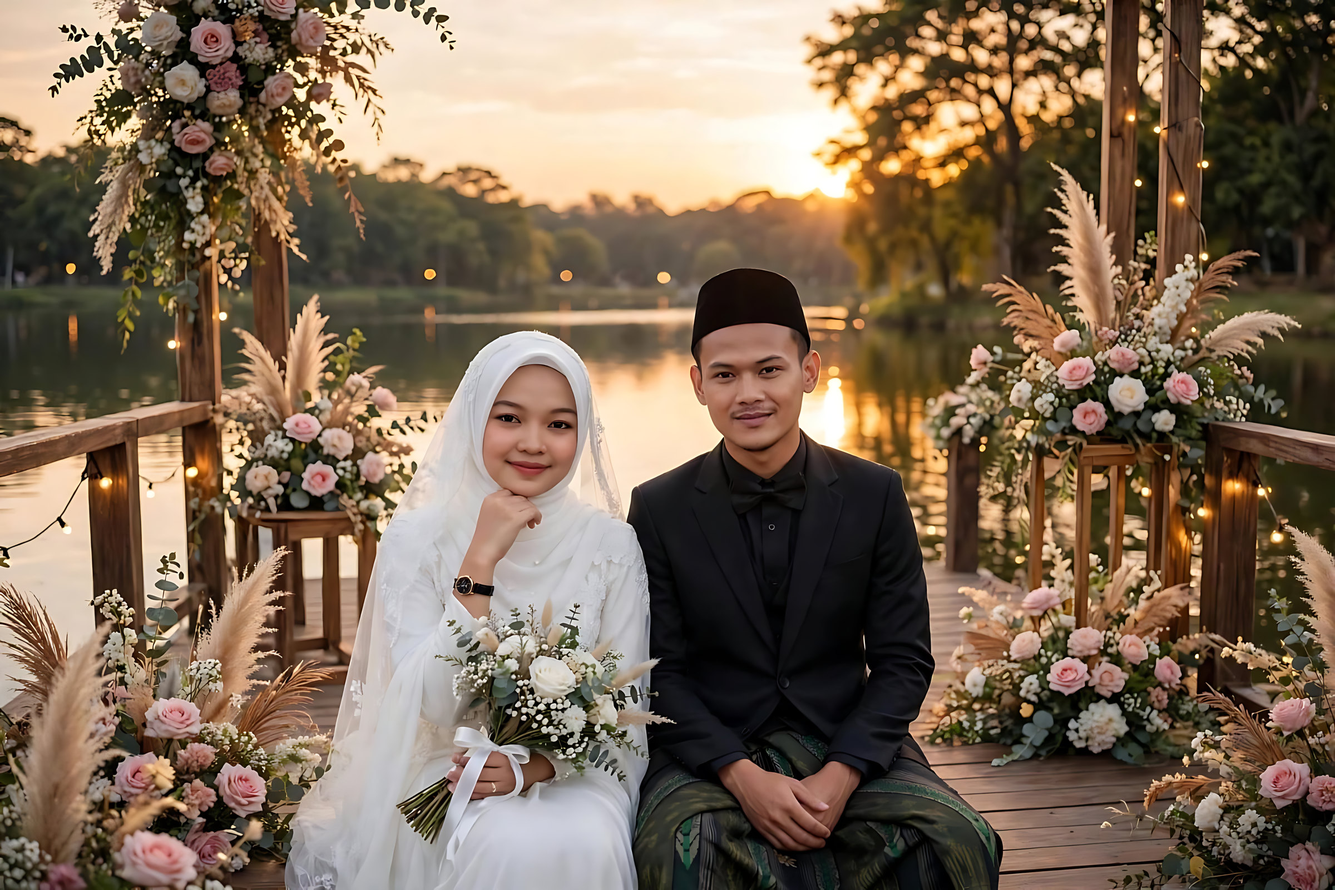
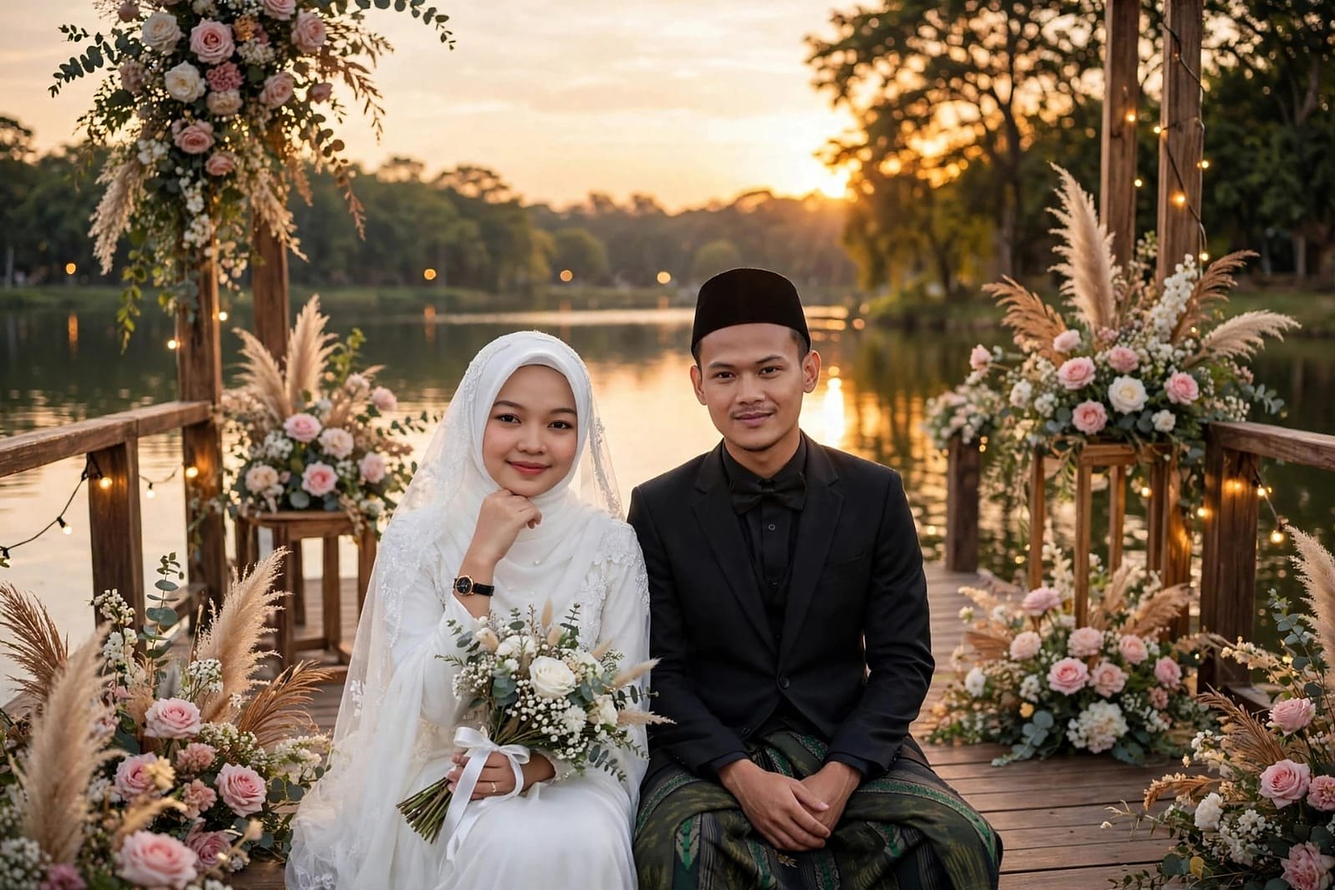
Kembalikan foto dan zoom cover ke versi sebelumnya (batalkan foto AI)
Claude-Session: https://claude.ai/code/session_011tfQsSqVjet6U28Su2ZzM9

diff --git a/public/index.html b/public/index.html
@@ -51,8 +51,7 @@ p{margin:0;max-width:34ch}
 .cover>*{position:relative}
 @media (max-width:600px){
   /* Phones: photo on top, text below it, so names never sit over the faces */
-  /* No slow zoom on phones: a scaling layer is drawn softer by mobile browsers */
-  .cover>.cover-bg{inset:0 0 auto;height:62%;background-position:36% 40%;animation:none}
+  .cover>.cover-bg{inset:0 -1% auto;height:62%;background-position:36% 40%;animation-name:kbSoft}
   .cover::before{background:linear-gradient(180deg,rgba(23,32,27,.1) 0%,rgba(23,32,27,0) 30%,rgba(23,32,27,.85) 54%,var(--night) 62%)}
 }
 .cover.gone{transform:translateY(-100%);opacity:0;pointer-events:none}
